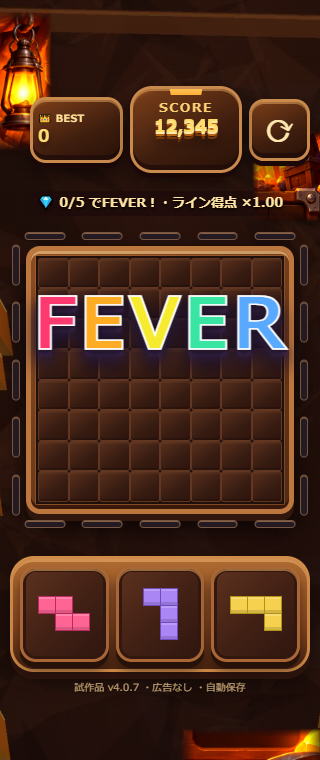
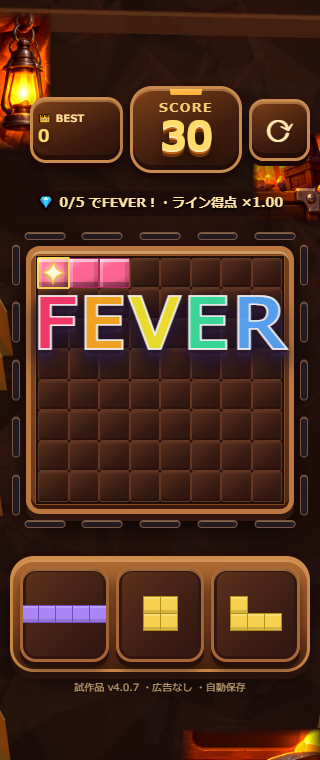
Simplify clear effects and improve record and drag visibility

diff --git a/index.html b/index.html
@@ -1010,14 +1010,9 @@ body::after{content:none!important}
 <style>
 /* v4.0.7: brighter mine-break effects without obscuring the board */
 .clear-fx-group{position:fixed;inset:0;pointer-events:none;overflow:hidden}
-.clear-shard{clip-path:polygon(8% 0,95% 17%,80% 90%,25% 100%,0 42%)}
 .burst-bit{animation-duration:.78s!important;box-shadow:0 0 6px var(--burst-color),inset 0 1px 2px #fff9!important}
 .burst-spark{background:#fff5ae!important;box-shadow:0 0 7px 3px #ffeb7b,0 0 14px #ffae3b!important}
 .clear-hotflash{width:48px!important;height:48px!important;background:radial-gradient(circle,#fff 0%,#fff9b8 18%,#ffd54bbd 39%,transparent 72%)!important;animation-duration:.4s!important}
-.clear-shock{width:75px!important;height:75px!important;border:5px solid #fff7c8!important;box-shadow:0 0 24px #ffcf6e,0 0 40px #fff3aa!important;animation-duration:.63s!important}
-.clear-streak{position:fixed;pointer-events:none;width:min(70vw,380px);height:13px;transform:translate(-50%,-50%) rotate(-18deg);border-radius:50%;background:linear-gradient(90deg,transparent,#ffe89e 25%,#fff 50%,#ffe89e 75%,transparent);filter:drop-shadow(0 0 12px #ffc23c);animation:clearStreak .42s ease-out both}
-@keyframes clearStreak{0%{opacity:0;transform:translate(-50%,-50%) rotate(-18deg) scaleX(.2)}25%{opacity:.95}100%{opacity:0;transform:translate(-50%,-50%) rotate(-18deg) scaleX(1.3)}}
-@media(prefers-reduced-motion:reduce){.clear-streak{animation-duration:.12s!important}}
 </style>
 <style>
 /* v4.0.7: ensure scoreboard text fits on narrow iPhones */
@@ -1064,7 +1059,14 @@ body::after{content:none!important}
 @keyframes recordConfetti{0%{opacity:0;transform:translateY(-20px) rotate(0)}8%{opacity:1}88%{opacity:1}100%{opacity:0;transform:translateY(520px) rotate(650deg)}}
 @media(prefers-reduced-motion:reduce){#over .record-confetti{animation:none!important}#over .record-crown,#over .record-title{animation:none!important}}
 </style>
-</head><body><main class="app"><div class="cave-decor cave-lantern" aria-hidden="true"></div><div class="cave-decor cave-crystal" aria-hidden="true"></div><div class="cave-decor cave-pickaxe" aria-hidden="true"></div><div class="hud"><div class="bestcard"><span>👑 BEST</span><strong id="best">0</strong></div><section class="scorehero"><div class="scorelabel">SCORE</div><div class="scorevalue" id="score">0</div></section><button class="topreset" id="restart" aria-label="リセット">⟳</button></div><div class="rulebar"><span class="text" id="ruleText">光る鉱石を採掘しよう・全消し +1,000</span><span id="rescued" hidden>0</span></div><section class="boardshell"><div id="feverMeter" aria-hidden="true"><div id="meterSegs"></div></div><section class="boardwrap"><div aria-label="8×8 パズル盤面" class="board" id="board"></div></section></section><div aria-live="polite" class="banner" id="message"></div><div class="tray" id="tray"></div><div class="footer">試作品 v4.0.7 ・広告なし ・自動保存</div><div class="ad-space" aria-hidden="true"></div></main><div class="burst-layer" id="burstLayer" aria-hidden="true"></div><div class="toast" id="toast"></div><dialog id="resetConfirm" class="reset-dialog"><div class="reset-icon">⛏</div><h2>採掘をやり直す？</h2><p>現在のスコアと盤面をリセットして、<br>最初からもう一度始めます。</p><div class="confirm-actions"><button id="resetNo" class="cancel-reset">キャンセル</button><button id="resetYes" class="agree-reset">リセット</button></div></dialog><dialog id="over"><div id="recordBurst" aria-hidden="true"></div><div class="record-crown" aria-hidden="true">👑</div><div class="record-title">NEW HIGH SCORE!</div><div class="record-congrats">🎉 おめでとう！新記録達成！ 🎉</div><div class="over-normal-icon" style="font-size:52px">💎</div><h2 class="over-normal-title">採掘終了！</h2><p class="record-score-label">スコア <strong id="final">0</strong></p><div class="bonus-result">通常スコア <strong id="basefinal">0</strong><br/>FEVER条件 <strong id="bonusfinal">宝石5個</strong><div id="foundfinal">今回の宝石なし</div></div><p style="color:#7f6a55">もう一度チャレンジしてみよう</p><button id="again">もう一回！</button></dialog><script>
+<style>
+/* Android feedback: hide only the source miniature, keep its tray slot. */
+.tray .piece.drag-source .mini{visibility:hidden!important}
+#over.new-record .bonus-result,#over.new-record .bonus-result strong,
+#over.new-record .bonus-result #foundfinal{color:#fff4dc!important;text-shadow:0 1px 2px #000;font-weight:800}
+#over.new-record .bonus-result{background:#24182f!important}
+#over.new-record>p{color:#fff4dc!important}
+</style></head><body><main class="app"><div class="cave-decor cave-lantern" aria-hidden="true"></div><div class="cave-decor cave-crystal" aria-hidden="true"></div><div class="cave-decor cave-pickaxe" aria-hidden="true"></div><div class="hud"><div class="bestcard"><span>👑 BEST</span><strong id="best">0</strong></div><section class="scorehero"><div class="scorelabel">SCORE</div><div class="scorevalue" id="score">0</div></section><button class="topreset" id="restart" aria-label="リセット">⟳</button></div><div class="rulebar"><span class="text" id="ruleText">光る鉱石を採掘しよう・全消し +1,000</span><span id="rescued" hidden>0</span></div><section class="boardshell"><div id="feverMeter" aria-hidden="true"><div id="meterSegs"></div></div><section class="boardwrap"><div aria-label="8×8 パズル盤面" class="board" id="board"></div></section></section><div aria-live="polite" class="banner" id="message"></div><div class="tray" id="tray"></div><div class="footer">試作品 v4.0.7 ・広告なし ・自動保存</div><div class="ad-space" aria-hidden="true"></div></main><div class="burst-layer" id="burstLayer" aria-hidden="true"></div><div class="toast" id="toast"></div><dialog id="resetConfirm" class="reset-dialog"><div class="reset-icon">⛏</div><h2>採掘をやり直す？</h2><p>現在のスコアと盤面をリセットして、<br>最初からもう一度始めます。</p><div class="confirm-actions"><button id="resetNo" class="cancel-reset">キャンセル</button><button id="resetYes" class="agree-reset">リセット</button></div></dialog><dialog id="over"><div id="recordBurst" aria-hidden="true"></div><div class="record-crown" aria-hidden="true">👑</div><div class="record-title">NEW HIGH SCORE!</div><div class="record-congrats">🎉 おめでとう！新記録達成！ 🎉</div><div class="over-normal-icon" style="font-size:52px">💎</div><h2 class="over-normal-title">採掘終了！</h2><p class="record-score-label">スコア <strong id="final">0</strong></p><div class="bonus-result">通常スコア <strong id="basefinal">0</strong><br/>FEVER条件 <strong id="bonusfinal">宝石5個</strong><div id="foundfinal">今回の宝石なし</div></div><p style="color:#7f6a55">もう一度チャレンジしてみよう</p><button id="again">もう一回！</button></dialog><script>
 (()=>{'use strict';const N=8,KEY='jewel-mine-v35';const SHAPES=[[[0,0]],[[0,0],[1,0]],[[0,0],[1,0],[2,0]],[[0,0],[0,1]],[[0,0],[0,1],[0,2]],[[0,0],[1,0],[0,1],[1,1]],[[0,0],[1,0],[2,0],[1,1]],[[0,0],[1,0],[1,1]],[[0,0],[0,1],[1,1]],[[0,0],[1,0],[2,0],[3,0]],[[0,0],[1,0],[2,0],[0,1]],[[0,0],[1,0],[2,0],[1,1],[1,2]],[[0,0],[1,0],[2,0],[0,1],[1,1],[2,1]],[[0,0],[1,0],[2,0],[0,1],[1,1],[2,1],[0,2],[1,2],[2,2]],[[0,0],[0,1],[0,2],[1,2]],[[0,0],[1,0],[0,1],[0,2]],[[0,0],[1,0],[1,1],[1,2]],[[1,0],[1,1],[0,2],[1,2]],[[0,0],[1,0],[2,0],[2,1]],[[0,0],[0,1],[1,1],[2,1]],[[1,0],[0,1],[1,1],[2,1]],[[0,0],[1,0],[1,1],[2,1]],[[1,0],[2,0],[0,1],[1,1]],[[0,0],[0,1],[0,2],[0,3]],[[0,0],[1,0],[2,0],[3,0],[4,0]],[[0,0],[0,1],[0,2],[0,3],[0,4]],[[0,0],[1,0],[2,0],[0,1],[2,1]],[[0,0],[1,0],[2,0],[0,1],[1,1]],[[0,0],[1,0],[1,1],[2,1],[2,2]],[[2,0],[1,1],[2,1],[0,2],[1,2]],[[0,0],[0,1],[1,1],[1,2]],[[1,0],[0,1],[1,1],[0,2]],[[0,0],[1,0],[2,0],[3,0],[1,1]]];const COLORS=['#ff6594','#34baf2','#ff9a39','#f5d14f','#62ce74','#aa85f4'];const EDGES=['#b92b60','#147bb1','#b85913','#b09216','#258746','#704ac1'];let state,selected=-1,prev=null,drag=null,suppressTap=false;let boardEl=document.getElementById('board'),tray=document.getElementById('tray');const $=id=>document.getElementById(id);
 // Haptics only work in browsers implementing navigator.vibrate (iOS Safari does not).
 function buzz(kind){try{if(typeof navigator.vibrate==='function')navigator.vibrate(kind==='clear'?24:12)}catch(e){}}
@@ -1327,58 +1329,17 @@ function playReveals(found,done){
 }
 function burstClearedCells(indices){
  const layer=$('burstLayer');if(!indices.length)return;
- // Keep previous explosions alive when the next line clears quickly.
- const burst=document.createElement('div');
- burst.className='clear-fx-group';
- const frag=document.createDocumentFragment();
- // Bound each burst to 16 evenly distributed cells and two overlapping groups.
  while(layer.childElementCount>=2)layer.firstElementChild.remove();
- const count=Math.min(16,indices.length);
- const sampled=Array.from({length:count},(_,i)=>indices[Math.floor(i*indices.length/count)]);
- // Read all geometry before creating or attaching effect nodes.
- const rects=sampled.map(idx=>boardEl.children[idx]?.getBoundingClientRect());
- const multi=indices.length>=16;
- let sx=0,sy=0,n=0;
- for(let i=0;i<sampled.length;i++){
-  const idx=sampled[i],rect=rects[i];if(!rect)continue;
-  const color=COLORS[state.board[idx]]||'#eab45c';
-  const edge=EDGES[state.board[idx]]||'#8c5d36';
-  const cx=rect.left+rect.width/2,cy=rect.top+rect.height/2;
-  sx+=cx;sy+=cy;n++;
-  // A short white-hot flash followed by coloured shards and golden sparks.
+ const count=Math.min(8,indices.length);
+ const rects=Array.from({length:count},(_,i)=>boardEl.children[indices[Math.floor(i*indices.length/count)]]?.getBoundingClientRect());
+ const burst=document.createElement('div');burst.className='clear-fx-group';
+ for(const rect of rects){
+  if(!rect)continue;
   const flash=document.createElement('i');flash.className='burst-flash clear-hotflash';
-  flash.style.left=cx+'px';flash.style.top=cy+'px';
-  frag.appendChild(flash);
-  for(let k=0;k<5;k++){
-   const bit=document.createElement('i');
-   const angle=(k/5)*Math.PI*2+((idx*13)%17)*.21;
-   const distance=(multi?44:34)+((idx*11+k*19)%50);
-   const spark=k>=3;
-   const size=spark?Math.max(3,rect.width*.09):Math.max(5,rect.width*(k%2?.19:.28));
-   bit.className='burst-bit'+(spark?' burst-spark':' clear-shard');
-   bit.style.left=(cx-size/2)+'px';bit.style.top=(cy-size/2)+'px';
-   bit.style.width=size+'px';bit.style.height=size+'px';
-   bit.style.setProperty('--burst-color',spark?'#fff6bb':k%3===0?edge:color);
-   bit.style.setProperty('--tx',(Math.cos(angle)*distance)+'px');
-   bit.style.setProperty('--ty',(Math.sin(angle)*distance+16)+'px');
-   bit.style.setProperty('--rotation',((k%2?1:-1)*(150+k*31))+'deg');
-   bit.style.animationDelay=(k%3*22)+'ms';
-   frag.appendChild(bit);
-  }
+  flash.style.left=(rect.left+rect.width/2)+'px';flash.style.top=(rect.top+rect.height/2)+'px';
+  burst.appendChild(flash);
  }
- if(n){
-  const shock=document.createElement('i');shock.className='burst-shock clear-shock';
-  shock.style.left=(sx/n)+'px';shock.style.top=(sy/n)+'px';
-  frag.appendChild(shock);
-  // Multi-line clears get a brief diagonal streak of light.
-  if(multi){
-   const streak=document.createElement('i');streak.className='clear-streak';
-   streak.style.left=(sx/n)+'px';streak.style.top=(sy/n)+'px';
-   frag.appendChild(streak);
-  }
- }
- burst.appendChild(frag);layer.appendChild(burst);
- setTimeout(()=>burst.remove(),950);
+ layer.appendChild(burst);setTimeout(()=>burst.remove(),450);
 }
 function place(r,c){
  if(animationLocked)return;
@@ -1457,8 +1418,8 @@ function reset(){$('burstLayer').replaceChildren();const best=state.best;state=f
 // Pointer drag v0.2: a real floating block follows ABOVE the finger, showing exact placement.
 function dragCellSize(){const c=boardEl.children[0], n=boardEl.children[1];return {size:c.getBoundingClientRect().width,pitch:n.getBoundingClientRect().left-c.getBoundingClientRect().left};}
 function dragPosition(e){if(!drag)return;const d=drag, first=boardEl.children[0].getBoundingClientRect();let left=e.clientX-d.width/2, top=e.clientY-d.lift-d.height/2;d.ghost.style.left=left+'px';d.ghost.style.top=top+'px';let c=Math.round((left-first.left)/d.pitch),r=Math.round((top-first.top)/d.pitch);d.r=r;d.c=c;const good=r>=0&&c>=0&&r<N&&c<N&&valid(state.pieces[d.index],r,c);d.good=good;d.ghost.classList.toggle('invalid',!good);if(r>=-2&&c>=-2&&r<N&&c<N){selected=d.index;preview(r,c);if(!good&&r>=0&&c>=0) $('message').textContent='';else if(good&&!document.querySelector('.boardwrap').classList.contains('readyline'))$('message').textContent='';}else{clearPreview();$('message').textContent='';}}
-function endDrag(e,cancel=false){if(!drag||e.pointerId!==drag.id)return;dragPosition(e);const d=drag;drag=null;clearPreview();document.querySelector('.boardwrap').classList.remove('dragactive');d.ghost.remove();suppressTap=true;setTimeout(()=>suppressTap=false,350);if(!cancel&&d.good&&valid(state.pieces[d.index],d.r,d.c)){selected=d.index;place(d.r,d.c)}else{selected=d.index;render();$('message').textContent='';}}
-tray.addEventListener('pointerdown',e=>{const el=e.target.closest('.piece');if(!el||drag||animationLocked)return;const i=Number(el.dataset.p);if(state.pieces[i].used)return;e.preventDefault();buzz('pick');selected=i;render();const p=state.pieces[i],shape=SHAPES[p.s], [w,h]=dims(shape), {size,pitch}=dragCellSize();const ghost=document.createElement('div');ghost.className='dragghost';ghost.style.setProperty('--cell',size+'px');ghost.style.gridTemplateColumns=`repeat(${w},${size}px)`;ghost.style.gridTemplateRows=`repeat(${h},${size}px)`;ghost.style.gap=(pitch-size)+'px';ghost.style.width=(w*size+(w-1)*(pitch-size))+'px';ghost.style.height=(h*size+(h-1)*(pitch-size))+'px';for(let y=0;y<h;y++)for(let x=0;x<w;x++){let u=document.createElement('div');const on=shape.some(q=>q[0]===x&&q[1]===y);u.className='unit'+(on?'':' empty');if(on){u.style.setProperty('--color',COLORS[p.color]);u.style.setProperty('--edge',EDGES[p.color])}ghost.appendChild(u)}document.body.appendChild(ghost);drag={id:e.pointerId,index:i,ghost,pitch,width:parseFloat(ghost.style.width),height:parseFloat(ghost.style.height),lift:(h*size+(h-1)*(pitch-size))/2+size*3.9,r:-1,c:-1,good:false};document.querySelector('.boardwrap').classList.add('dragactive');dragPosition(e);});
+function endDrag(e,cancel=false){if(!drag||e.pointerId!==drag.id)return;dragPosition(e);const d=drag;drag=null;clearPreview();document.querySelector('.boardwrap').classList.remove('dragactive');d.ghost.remove();tray.children[d.index]?.classList.remove('drag-source');suppressTap=true;setTimeout(()=>suppressTap=false,350);if(!cancel&&d.good&&valid(state.pieces[d.index],d.r,d.c)){selected=d.index;place(d.r,d.c)}else{selected=d.index;render();$('message').textContent='';}}
+tray.addEventListener('pointerdown',e=>{const el=e.target.closest('.piece');if(!el||drag||animationLocked)return;const i=Number(el.dataset.p);if(state.pieces[i].used)return;e.preventDefault();buzz('pick');selected=i;render();const p=state.pieces[i],shape=SHAPES[p.s], [w,h]=dims(shape), {size,pitch}=dragCellSize();const ghost=document.createElement('div');ghost.className='dragghost';ghost.style.setProperty('--cell',size+'px');ghost.style.gridTemplateColumns=`repeat(${w},${size}px)`;ghost.style.gridTemplateRows=`repeat(${h},${size}px)`;ghost.style.gap=(pitch-size)+'px';ghost.style.width=(w*size+(w-1)*(pitch-size))+'px';ghost.style.height=(h*size+(h-1)*(pitch-size))+'px';for(let y=0;y<h;y++)for(let x=0;x<w;x++){let u=document.createElement('div');const on=shape.some(q=>q[0]===x&&q[1]===y);u.className='unit'+(on?'':' empty');if(on){u.style.setProperty('--color',COLORS[p.color]);u.style.setProperty('--edge',EDGES[p.color])}ghost.appendChild(u)}document.body.appendChild(ghost);tray.children[i].classList.add('drag-source');drag={id:e.pointerId,index:i,ghost,pitch,width:parseFloat(ghost.style.width),height:parseFloat(ghost.style.height),lift:(h*size+(h-1)*(pitch-size))/2+size*3.9,r:-1,c:-1,good:false};document.querySelector('.boardwrap').classList.add('dragactive');dragPosition(e);});
 window.addEventListener('pointermove',e=>{if(drag&&drag.id===e.pointerId){e.preventDefault();dragPosition(e)}},{passive:false});
 window.addEventListener('pointerup',e=>endDrag(e));window.addEventListener('pointercancel',e=>endDrag(e,true));
 // Tap-to-select remains usable if dragging is difficult.
